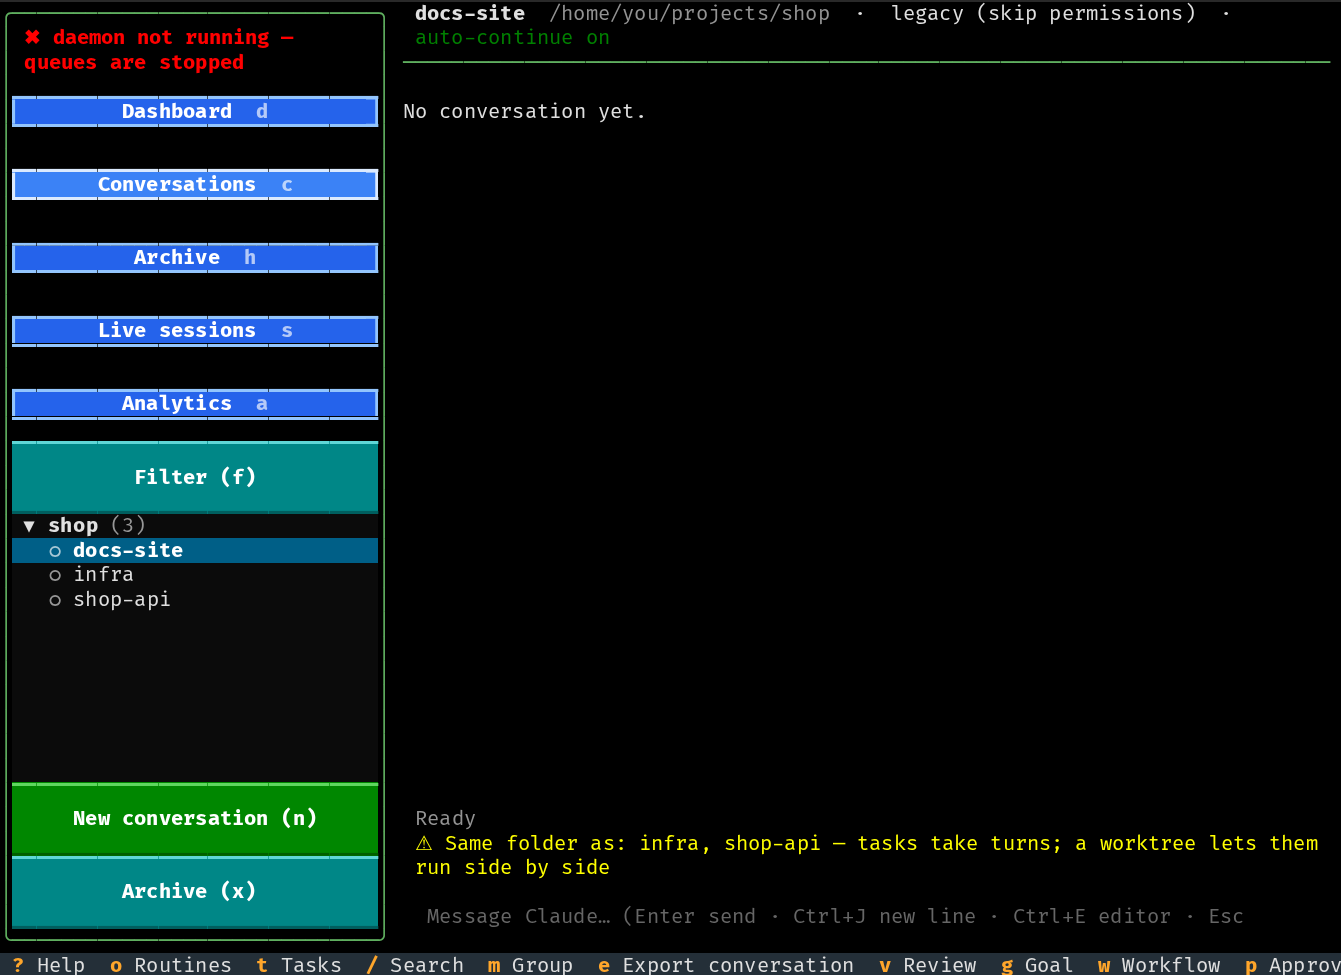
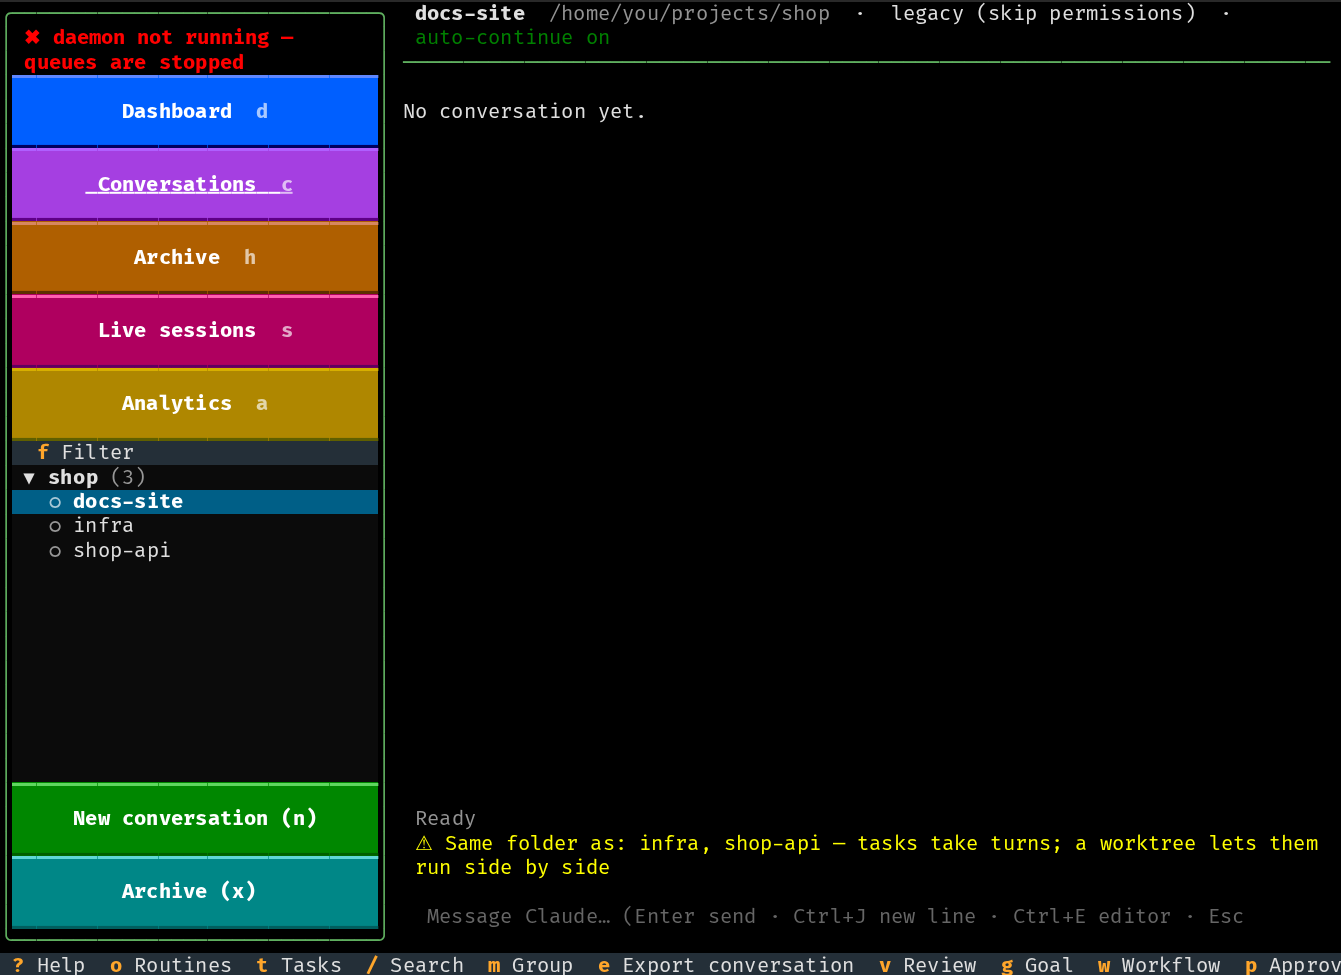
Main menu: 3D buttons, each its own colour, directly under each other; Filter as a strip like the key list

Changed region(s): [[0.0, 0.0615, 0.3057, 0.6154]]

diff --git a/src/ccc/tui/layout.py b/src/ccc/tui/layout.py
@@ -29,12 +29,15 @@ class SidebarButton:
     # key — Button labels are parsed as Rich markup, so use "({key})"
     # rather than "[{key}]" (brackets get silently eaten).
     label: str
-    color: str  # "green" | "teal" | "red" — see BUTTON_CSS
+    color: str  # "green" | "teal" | "red" | "strip" — see BUTTON_CSS
     action: str  # action name on the screen, without the "action_" prefix
     key_id: str  # keymap action id whose key the label shows
 
     def text(self, keys: dict[str, str]) -> str:
-        return self.label.format(key=keymap.pretty(keys[self.key_id]))
+        key = keymap.pretty(keys[self.key_id])
+        if self.color == "strip":  # like the key list at the bottom: the key in its colour
+            key = f"[b $footer-key-foreground]{escape(key)}[/]"
+        return self.label.format(key=key)
 
 
 # (view key, label) in sidebar order; each one's hotkey is keymap's
@@ -57,8 +60,8 @@ NEW_CONVERSATION_BUTTON = SidebarButton(
     "views.new_conversation",
 )
 
-# Above the conversation list: opens the filter (f).
-FILTER_BUTTON = SidebarButton("sidebar-filter", _("Filter ({key})"), "teal", "filter", "conversations.filter")
+# Above the conversation list: opens the filter (f); a strip like the key list at the bottom.
+FILTER_BUTTON = SidebarButton("sidebar-filter", _("{key} Filter"), "strip", "filter", "conversations.filter")
 # Under New conversation: archives the selected conversation (x).
 ARCHIVE_BUTTON = SidebarButton("sidebar-archive", _("Archive ({key})"), "teal", "toggle_archive",
                                "conversations.archive")
@@ -228,25 +231,40 @@ Button.sidebar-button-red.-active {
     border-top: tall #5f0000;
     border-bottom: tall #ff5f5f;
 }
-/* The main menu (Dashboard … Analytics): blue ($ccc-nav…, tui.theme), style 061 of the
-   button demo (wide border, 2D, three rows high); the open view is lighter. In a short
-   window (SidebarScreen.-short) one row each, so the list and the buttons still fit. */
+/* The main menu (Dashboard … Analytics): 3D like the buttons below, each its own colour,
+   directly under each other; the open view is lighter. In a short window
+   (SidebarScreen.-short) one row each, so the list and the buttons still fit. */
 Button.nav-button {
     width: 100%;
     height: 3;
-    border: wide $ccc-nav-border;
-    background: $ccc-nav;
-}
-Button.nav-button:hover {
-    background: $ccc-nav-hover;
+    border: none;
+    text-style: bold;
 }
 Button.nav-button.-current {
-    background: $ccc-nav-hover;
-    border: wide $ccc-nav-border-current;
+    background-tint: white 25%;
+    text-style: bold underline;
 }
+Button.nav-dashboard { background: #005fff; border-top: tall #5f87ff; border-bottom: tall #00005f; }
+Button.nav-conversations { background: #8700d7; border-top: tall #af5fff; border-bottom: tall #5f0087; }
+Button.nav-archive { background: #af5f00; border-top: tall #d7875f; border-bottom: tall #5f2f00; }
+Button.nav-sessions { background: #af005f; border-top: tall #ff5faf; border-bottom: tall #5f005f; }
+Button.nav-analytics { background: #af8700; border-top: tall #d7af00; border-bottom: tall #5f5f00; }
 SidebarScreen.-short Button.nav-button {
     height: 1;
     border: none;
+}
+/* Filter: a strip like the key list at the bottom (one row, blue, orange key) */
+Button.sidebar-button-strip {
+    height: 1;
+    border: none;
+    border-top: none;
+    border-bottom: none;
+    background: $footer-background;
+    color: $footer-description-foreground;
+    text-style: none;
+    text-align: left;
+    content-align: left middle;
+    padding: 0 1;
 }
 Button.sidebar-button:disabled {
     border-top: tall $panel;
@@ -447,7 +465,7 @@ class SidebarScreen(Screen):
     def compose(self):
         nav_items = []
         for key, label in VIEWS:
-            item = Button(self._nav_text(key, label), id=f"nav-{key}", classes="nav-button")
+            item = Button(self._nav_text(key, label), id=f"nav-{key}", classes=f"nav-button nav-{key}")
             item.can_focus = False  # like the other sidebar buttons: their keys do it
             if key == self.VIEW:
                 item.add_class("-current")

diff --git a/tests/test_tui_layout.py b/tests/test_tui_layout.py
@@ -128,8 +128,8 @@ async def test_sidebar_buttons_are_only_the_views_own_actions(tmp_path):
         "d": [],  # only an overview
         "s": ["Add prompt (+)", "Reload session list (r)"],
         "a": [],
-        "h": ["Filter (f)"],  # Archive: nothing to start from there, only the filter
-        "c": ["Filter (f)", "New conversation (n)", "Archive (x)", "Retry blocked queue (r)"],
+        "h": ["f Filter"],  # Archive: nothing to start from there, only the filter
+        "c": ["f Filter", "New conversation (n)", "Archive (x)", "Retry blocked queue (r)"],
     }
     async with app.run_test() as pilot:
         await pilot.pause()

diff --git a/src/ccc/tui/theme.py b/src/ccc/tui/theme.py
@@ -28,10 +28,6 @@ VARIABLES = {
     "ccc-selection": "#005f87",  # the selected row / view
     "ccc-human": "#5f87af",  # your messages
     "ccc-claude": "#5faf5f",  # Claude's replies
-    "ccc-nav": "#2563eb",  # the main menu's buttons (Dashboard … Analytics)
-    "ccc-nav-hover": "#3b82f6",  # …under the pointer, and the open view's
-    "ccc-nav-border": "#93c5fd",  # …their frame
-    "ccc-nav-border-current": "#dbeafe",  # …the open view's frame
     "ccc-frame": "#5faf5f",  # frame lines (the same green as the tmux frame, FRAME)
 }
 

diff --git a/src/ccc/i18n/cs.py b/src/ccc/i18n/cs.py
@@ -9,7 +9,7 @@ CS: dict[str, str] = {
     "Conversations": "Konverzace",
     "Archive": "Archiv",
     "Archive ({key})": "Archivovat ({key})",
-    "Filter ({key})": "Filtr ({key})",
+    "{key} Filter": "{key} Filtr",
     "Live sessions": "Živé relace",
     "Analytics": "Analytika",
     "Settings": "Nastavení",
